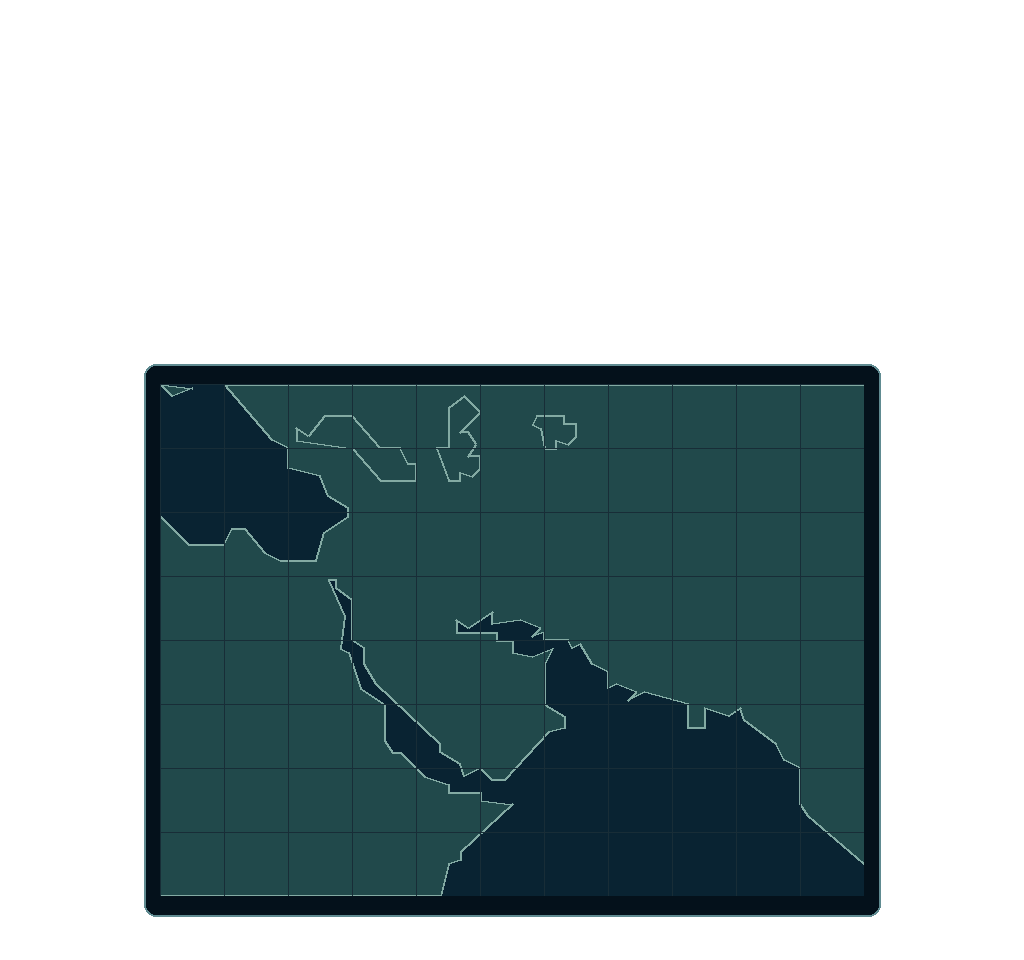
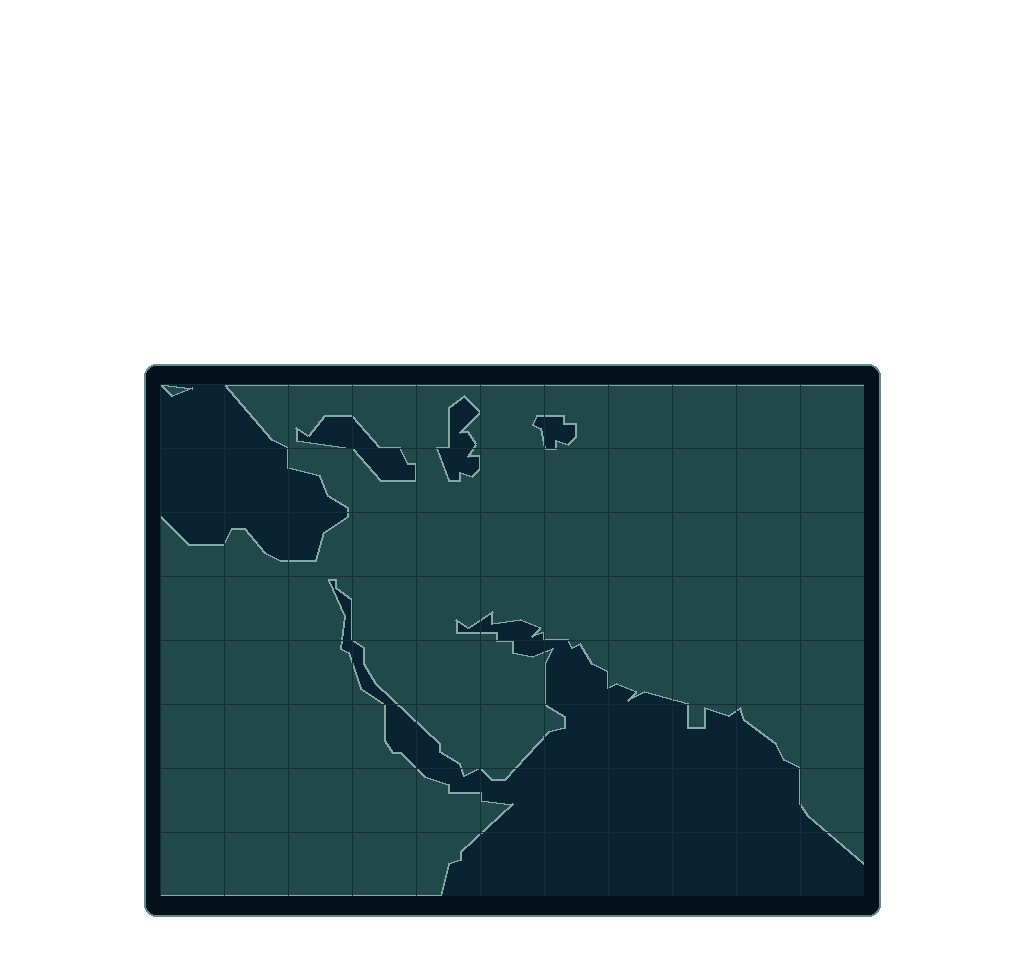
Fix enclosed water fills on mission-one map for v0.3.2

Changed region(s): [[0.2812, 0.4062, 0.4688, 0.5], [0.5312, 0.4375, 0.5625, 0.4688]]

diff --git a/scripts/build_pack.py b/scripts/build_pack.py
@@ -1,16 +1,15 @@
 from pathlib import Path
 from PIL import Image,ImageDraw,ImageFont,ImageFilter
-import numpy as np, json, shutil, math
+import numpy as np, json, math
 from build_dials import draw_dials
 from pack_io import save_png
 R=Path(__file__).resolve().parents[1]; P=R/'pack';P.mkdir(exist_ok=True)
 S=4
 # Original imagegen artwork; build script only sizes, masks and assembles pack assets.
-assets={'title':'exec-1831de19-0970-4971-99de-f8caf4339149.png','carrier':'exec-9adb6e1f-1e9c-4ebe-8160-8562f40ae464.png','cockpit':'exec-cde4a96f-76a5-4845-bef2-a8ffbc15b25b.png'}
+assets={name: f'source/{name}_master.png' for name in ('title','carrier','cockpit')}
 for k,v in assets.items():
  if k=='carrier':continue # clean animated launch plate is built once, below
- src=R/'source'/f'{k}_master.png'
- if not src.exists():shutil.copy(R.parent/'generated_images'/v,src)
+ src=R/v
  im=Image.open(src).convert('RGBA').resize((1024,960),Image.Resampling.LANCZOS)
  if k=='cockpit':
   # Align the painted monitor/frame edges with fixed native instrument rows.
@@ -30,7 +29,7 @@ d.text((512,866),'PRESS START',font=ImageFont.truetype(fontpath,25),anchor='mm',
 save_png(title_ui,P/'title_prompt.png')
 # Dynamic instrument glyphs remain tied to original CHR data.
 trans=Image.new('RGBA',(32,32));save_png(trans,P/'transparent.png')
-lines=['# Top Gun HD v0.3.1 - cockpit color corrections','<ver>109','<scale>4','<overscan>0,0,0,0','<img>transparent.png','<img>instruments.png']
+lines=['# Top Gun HD v0.3.2 - cockpit colors and map water fills','<ver>109','<scale>4','<overscan>0,0,0,0','<img>transparent.png','<img>instruments.png']
 def capture(n,s):return (R/f'captures/baseline/{n:05d}.{s}').read_bytes()
 def pat(n,i):return capture(n,'chr')[i*16:(i+1)*16].hex().upper()
 def tile_cond(name,n,x,y,i):lines.append(f'<condition>{name},tileAtPosition,{x},{y},{pat(n,i)},00000000,Y')
@@ -92,7 +91,7 @@ for i,x,y in sprite_records:lines.append(f'[cockpit]<tile>1,{pat(3240,i)},FF2A10
 for i,x,y in records:
  if i in chars:lines.append(f'<tile>1,{pat(3240,i)},0F2A0F0F,{x},{y},1,N')
 (P/'hires.txt').write_text('\n'.join(lines)+'\n')
-meta={'version': '0.2.0', 'rom_sha1': 'A39376136CCCA0025063F3356B9EB41666AFF0BE', 'emulator': 'MesenCE 2.2.1 (user supplied)', 'scale': 4, 'movie_frames': 8253, 'features': ['Approved title and native-timed animated launch', 'Impact-safe HD cockpit with native shake registration', 'Fine targeting reticle and radar display', 'Native-driven smooth missile digits and fuel segments', 'Updated landing instructions and pitch-aircraft indicator'], 'not_yet_redrawn': ['Enemy aircraft and projectiles', 'Clouds, ocean and terrain', 'Briefing map and weapon diagrams', 'Later missions, landing and refuelling'], 'assets': {'title': 'exec-1831de19-0970-4971-99de-f8caf4339149.png', 'carrier': 'exec-9adb6e1f-1e9c-4ebe-8160-8562f40ae464.png', 'cockpit': 'exec-cde4a96f-76a5-4845-bef2-a8ffbc15b25b.png'}, 'approved_intro_version': '0.1.1'}
+meta={'version': '0.2.0', 'emulator': 'MesenCE 2.2.1 (user supplied)', 'scale': 4, 'features': ['Approved title and native-timed animated launch', 'Impact-safe HD cockpit with native shake registration', 'Fine targeting reticle and radar display', 'Native-driven smooth missile digits and fuel segments', 'Updated landing instructions and pitch-aircraft indicator'], 'not_yet_redrawn': ['Enemy aircraft and projectiles', 'Clouds, ocean and terrain', 'Briefing map and weapon diagrams', 'Later missions, landing and refuelling'], 'assets': {'title': 'source/title_master.png', 'carrier': 'source/carrier_master.png', 'cockpit': 'source/cockpit_master.png'}, 'approved_intro_version': '0.1.1'}
 (R/'source/build_manifest.json').write_text(json.dumps(meta,indent=2)+'\n')
 import subprocess
 subprocess.run(['python3',str(R/'scripts/build_launch.py')],check=True)
@@ -104,8 +103,9 @@ subprocess.run(['python3',str(R/'scripts/build_panels.py')],check=True)
 subprocess.run(['python3',str(R/'scripts/build_flight_ui.py')],check=True)
 subprocess.run(['python3',str(R/'scripts/build_menus.py')],check=True)
 meta=json.loads((R/'source/build_manifest.json').read_text())
-meta['version']='0.3.1'
+meta['version']='0.3.2'
 meta['features'].append('Neutral windshield coaming and consistent attitude-display tick colors')
+meta['features'].append('Correct inland-water fills within the original mission-one coastline')
 (R/'source/build_manifest.json').write_text(json.dumps(meta,indent=2)+'\n')
 # Install pack/ manually or through the emulator after reviewing the build.
 print('Built',len(lines),'lines;',slot,'instrument tiles')

diff --git a/scripts/build_menus.py b/scripts/build_menus.py
@@ -99,6 +99,12 @@ def contours(mask):
         yield simplify(poly)
 
 
+def signed_area(poly):
+    """Positive for outer land, negative for water holes in screen coordinates."""
+    return sum(x0 * y1 - x1 * y0
+               for (x0, y0), (x1, y1) in zip(poly, poly[1:] + poly[:1])) / 2
+
+
 base = Image.open(R / 'source/briefing_console_master.png').convert('RGBA')
 base = base.resize((1024, 960), Image.Resampling.LANCZOS)
 d = ImageDraw.Draw(base)
@@ -116,11 +122,16 @@ native_map = colors(brief, 40, 96, 176, 128)
 land = native_map == 0x17
 map_layer = Image.new('RGBA', (176 * S, 128 * S), '#092332')
 md = ImageDraw.Draw(map_layer)
-for poly in contours(land):
+map_contours = [poly for poly in contours(land) if len(poly) > 3]
+# Fill enclosing regions first, then their holes (and any islands inside holes).
+# The traced winding distinguishes land from enclosed water without changing
+# the original coastline geometry.
+for poly in sorted(map_contours, key=lambda p: abs(signed_area(p)), reverse=True):
     pts = [(round(x * S), round(y * S)) for x, y in poly]
-    if len(pts) > 3:
-        md.polygon(pts, fill='#21494b')
-        md.line(pts, fill='#83aaa3', width=2, joint='curve')
+    md.polygon(pts, fill='#21494b' if signed_area(poly) > 0 else '#092332')
+for poly in map_contours:
+    pts = [(round(x * S), round(y * S)) for x, y in poly]
+    md.line(pts, fill='#83aaa3', width=2, joint='curve')
 for x in range(0, 176 * S, 16 * S):
     md.line((x, 0, x, 128 * S), fill='#31505b70', width=1)
 for y in range(0, 128 * S, 16 * S):

diff --git a/README.md b/README.md
@@ -1,6 +1,6 @@
 # Top Gun HD
 
-Development review build **v0.3.1** for the NES Top Gun (USA), using a Mesen HD pack. This is unfinished work, not a full-game release.
+Development review build **v0.3.2** for the NES Top Gun (USA), using a Mesen HD pack. This is unfinished work, not a full-game release.
 
 ## Install
 
@@ -12,10 +12,10 @@ Copy the contents of `pack/` (not the surrounding source tree) into the emulator
 - Cockpit HUD, damage-shake registration, radar and landing displays.
 - Centered cockpit dials and a cleanly clipped lower dial.
 - A windshield edge that stays neutral across runway/sky/cloud colors, with matching attitude-display ticks.
-- Mission-one tactical briefing map and all three missile-selection diagrams.
+- Mission-one tactical briefing map with correctly filled inland water and all three missile-selection diagrams.
 - Artwork masters, build scripts, capture references, supplied replay movies, and recorded validation reports.
 
-More artwork and gameplay work remains. Enemy/world/projectile graphics, later missions and refuelling need further coverage. See `source/COCKPIT_COLOR_NOTES.md` for this revision, `source/SCREEN_POLISH_NOTES.md` for the menu work, and `README.txt`, `source/PROJECT_NOTES.txt` and `source/build_manifest.json` for the earlier handoff. Validation reports identify the exact tested revision and scope; they are not a full-game QA claim.
+More artwork and gameplay work remains. Enemy/world/projectile graphics, later missions and refuelling need further coverage. See `source/MAP_WATER_NOTES.md` for this revision, `source/COCKPIT_COLOR_NOTES.md` for the included cockpit corrections, `source/SCREEN_POLISH_NOTES.md` for the menu work, and `README.txt`, `source/PROJECT_NOTES.txt` and `source/build_manifest.json` for the earlier handoff. Validation reports identify the exact tested revision and scope; they are not a full-game QA claim.
 
 ## Build
 
@@ -29,8 +29,10 @@ The build writes `pack/` and build metadata. The original v0.2.0 recovery was ch
 
 The v0.3.1 color fixes use the same Python libraries. They change the upper coaming and right attitude tick, add three small foreground caps for normal/left/right impact positions, and preserve the other 23 PNGs. The supplied 2,054-frame replay and a 180-frame impact replay match native game state and PCM audio; see `validation/cockpit_colors_v0.3.1.json`.
 
+The v0.3.2 map correction fills the three enclosed water regions with the sea color while preserving the coastline, grid and carrier marker. Only `menu_map.png` changes; the other 29 PNGs and all functional HD-pack rules remain unchanged from v0.3.1. See `validation/map_water_v0.3.2.json` for the 777-frame menu-to-cockpit replay checks.
+
 `validation/checkpoint_pack_sha256.json` records the preserved pack hashes. `validation/checkpoint_recovery.json` records recovery checks. `scripts/validate_release.py` requires additional original/HD captures and audio from emulator replays; those full replay outputs are not included here, so that script was not rerun during recovery.
 
 ## Repository workflow
 
-The v0.3.0 menu pass was merged into `main` at `afef647b114539c8e1a84f3e1df9933b74d7280e`. The v0.3.1 color fixes start there on `feature/cockpit-color-fixes-v0.3.1`. Keep further edits on feature branches and review before merging. Do not treat a development checkpoint as a release or permission to merge.
+The v0.3.0 menu pass was merged into `main` at `afef647b114539c8e1a84f3e1df9933b74d7280e`. The v0.3.1 cockpit color fixes and v0.3.2 map correction are together on `feature/cockpit-color-fixes-v0.3.1`. Keep further edits on feature branches and review before merging. Do not treat a development checkpoint as a release or permission to merge.

diff --git a/source/MAP_WATER_NOTES.md b/source/MAP_WATER_NOTES.md
@@ -1,0 +1,36 @@
+# Mission-one map water correction — v0.3.2
+
+This review build extends the cockpit color fixes on
+`feature/cockpit-color-fixes-v0.3.1`. It is awaiting visual approval and merge.
+
+The three enclosed water regions near the top of the briefing map had the
+land color inside their outlines. The contour tracer already distinguishes
+outer land boundaries from water holes by winding, but the renderer filled
+every polygon as land.
+
+`scripts/build_menus.py` now uses signed contour area to choose land or water
+fill. Enclosing polygons are filled before smaller nested regions, then the
+existing coastline outlines and grid are drawn. The original map geometry,
+line colors, grid and native carrier marker are preserved.
+
+Only `pack/menu_map.png` changes visually from v0.3.1: 5,404 pixels switch
+from land to water within the three enclosed regions. All coastline pixels,
+the other 29 PNGs and every functional HD-pack rule remain unchanged. The
+approved windshield, attitude tick and dial work is included.
+
+Build with `python3 scripts/build_pack.py` using Pillow 12.3.0 and NumPy
+2.3.5. An isolated full build reproduced the delivered 32-file pack. The builder
+uses the named artwork masters in `source/`; its public manifest omits ROM
+and replay identifiers and generated-asset UUID provenance.
+
+Validation replays 777 input frames in the supplied MesenCE 2.2.1, covering
+briefing, missile selection, confirmation and takeoff. Before/after game
+state matches on every frame, all 35 exported checkpoints match, and PCM
+audio is identical. Of 34 nonempty screenshot checkpoints, 27 change only
+inside the water regions and seven later screens remain identical.
+See `validation/map_water_v0.3.2.json` for aggregate results.
+
+Replay recordings, save states, captures and their identifying metadata
+remain outside this branch. This check covers the stated mission-one
+sequence; earlier cockpit validation is recorded separately in
+`validation/cockpit_colors_v0.3.1.json`.
